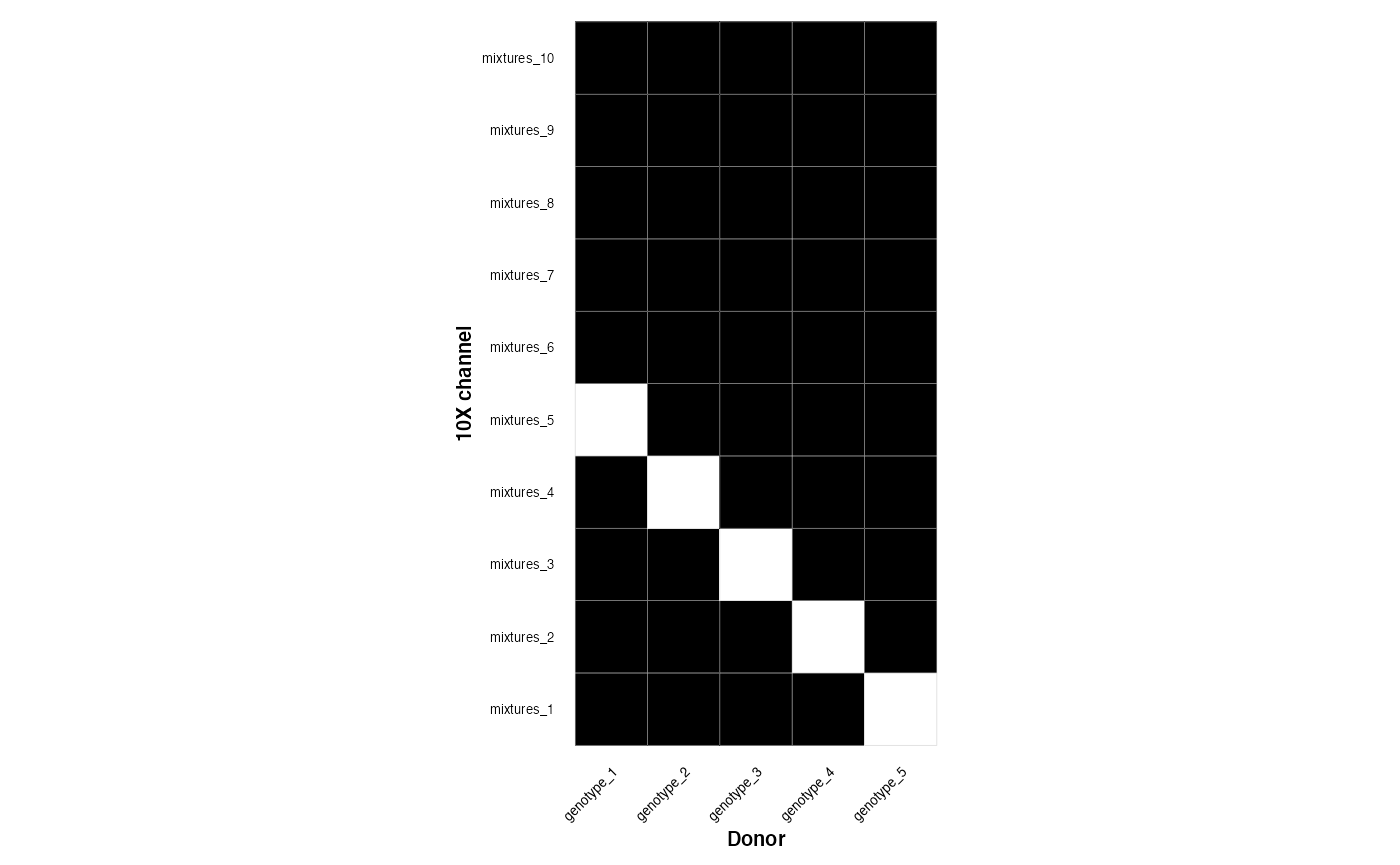
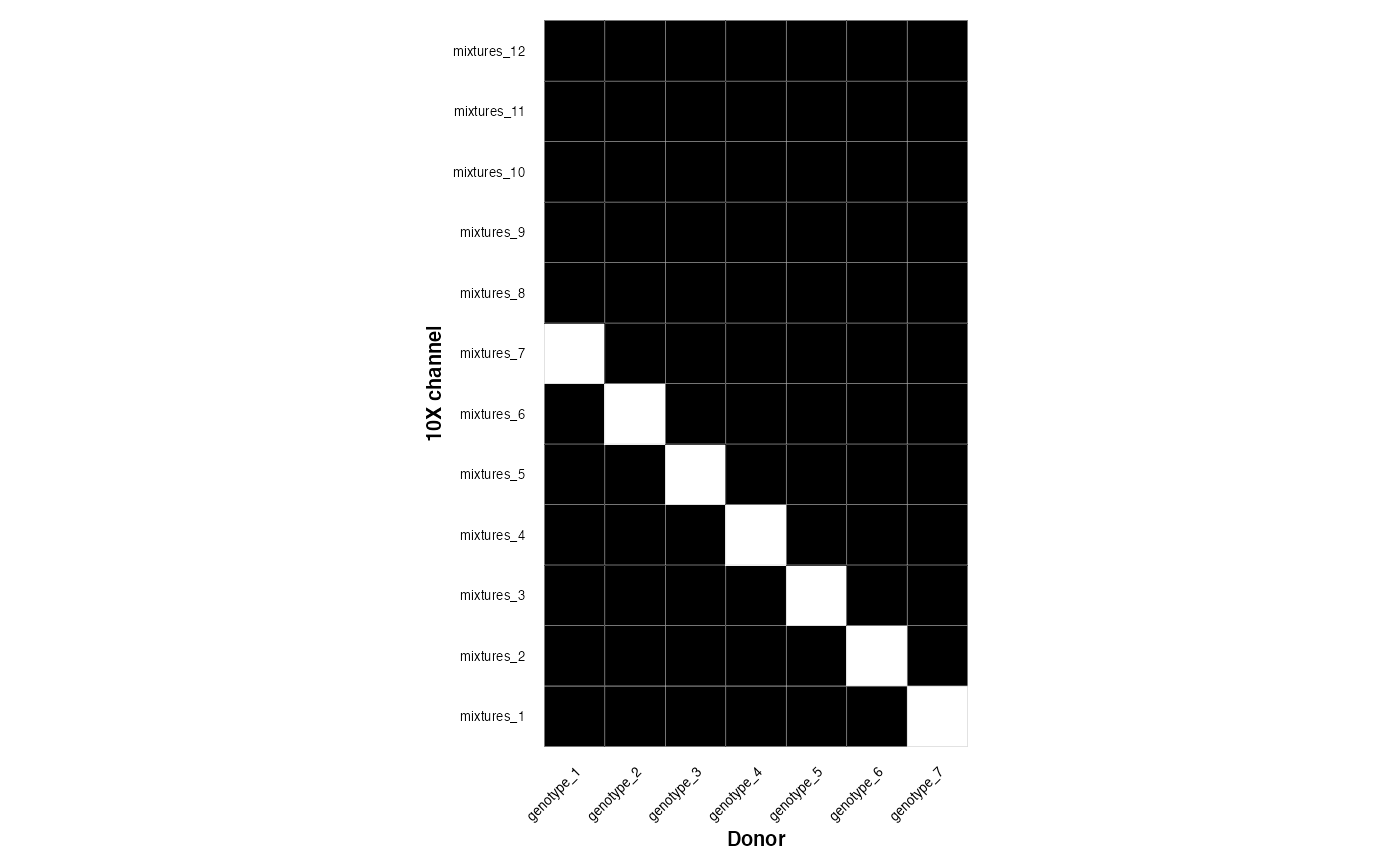
Built site for GenotypeMixtures: 0.0.0.9000@e977a91

diff --git a/articles/introduction.html b/articles/introduction.html
@@ -74,7 +74,7 @@
     <div class="page-header toc-ignore">
       <h1 data-toc-skip>Introduction to GenotypeMixtures</h1>
             
-            <h4 class="date">2021-06-23</h4>
+            <h4 class="date">2021-06-24</h4>
       
       
       <div class="hidden name"><code>introduction.Rmd</code></div>
@@ -90,7 +90,7 @@
 <p>Load GenotypeMixtures</p>
 <div class="sourceCode" id="cb2"><pre class="downlit sourceCode r">
 <code class="sourceCode R"><span class="kw"><a href="https://rdrr.io/r/base/library.html">library</a></span><span class="op">(</span><span class="va">GenotypeMixtures</span><span class="op">)</span></code></pre></div>
-<p>Experimental designs can be read in using this function if you point at a .csv Alternatively you can read in the .csv however you like, or construct from another file The experiments (10X channels should be rows, and the donors should be columns. Membership is denoted by 1 vs 0.</p>
+<p>Experimental designs can be read in using this function if you point at a .csv Alternatively you can read in the .csv however you like, or construct from another file The experiments (10X channels (mixtures) should be rows, and the donors/genotypes should be columns. Membership is denoted by 1 vs 0.</p>
 <pre><code>#&gt; reading experimental design
 #&gt; Using channel as id variables</code></pre>
 <p><img src="introduction_files/figure-html/unnamed-chunk-4-1.png" width="700"></p>
@@ -181,9 +181,9 @@
 <span class="co">#&gt; 23998 CCAGCGACATGGTTGT-1 singlet          1 mixtures_5 genotype_4 mixtures_5_1</span></code></pre></div>
 <p>The package can also output an experimental design with varying levels of density</p>
 <div class="sourceCode" id="cb11"><pre class="downlit sourceCode r">
-<code class="sourceCode R"><span class="va">dense_design</span> <span class="op">&lt;-</span> <span class="fu"><a href="../reference/make_overlapping_mixture.html">make_overlapping_mixture</a></span><span class="op">(</span>n_mixtures <span class="op">=</span> <span class="fl">10</span>, n_genotypes <span class="op">=</span> <span class="fl">5</span>, density <span class="op">=</span> <span class="fl">1</span> <span class="op">)</span>
-<span class="va">medium_density_design</span> <span class="op">&lt;-</span> <span class="fu"><a href="../reference/make_overlapping_mixture.html">make_overlapping_mixture</a></span><span class="op">(</span>n_mixtures <span class="op">=</span> <span class="fl">10</span>, n_genotypes <span class="op">=</span> <span class="fl">5</span>, density <span class="op">=</span> <span class="fl">0.5</span> <span class="op">)</span>
-<span class="va">sparse_design</span> <span class="op">&lt;-</span> <span class="fu"><a href="../reference/make_overlapping_mixture.html">make_overlapping_mixture</a></span><span class="op">(</span>n_mixtures <span class="op">=</span> <span class="fl">10</span>, n_genotypes <span class="op">=</span> <span class="fl">5</span>, density <span class="op">=</span> <span class="fl">0</span> <span class="op">)</span></code></pre></div>
+<code class="sourceCode R"><span class="va">dense_design</span> <span class="op">&lt;-</span> <span class="fu"><a href="../reference/make_overlapping_mixture.html">make_overlapping_mixture</a></span><span class="op">(</span>n_mixtures <span class="op">=</span> <span class="fl">12</span>, n_genotypes <span class="op">=</span> <span class="fl">7</span>, density <span class="op">=</span> <span class="fl">1</span> <span class="op">)</span>
+<span class="va">medium_density_design</span> <span class="op">&lt;-</span> <span class="fu"><a href="../reference/make_overlapping_mixture.html">make_overlapping_mixture</a></span><span class="op">(</span>n_mixtures <span class="op">=</span> <span class="fl">12</span>, n_genotypes <span class="op">=</span> <span class="fl">7</span>, density <span class="op">=</span> <span class="fl">0.5</span> <span class="op">)</span>
+<span class="va">sparse_design</span> <span class="op">&lt;-</span> <span class="fu"><a href="../reference/make_overlapping_mixture.html">make_overlapping_mixture</a></span><span class="op">(</span>n_mixtures <span class="op">=</span> <span class="fl">12</span>, n_genotypes <span class="op">=</span> <span class="fl">7</span>, density <span class="op">=</span> <span class="fl">0</span> <span class="op">)</span></code></pre></div>
 <p>This is a dense design</p>
 <div class="sourceCode" id="cb12"><pre class="downlit sourceCode r">
 <code class="sourceCode R"><span class="fu"><a href="../reference/plot_experimental_design.html">plot_experimental_design</a></span><span class="op">(</span><span class="va">dense_design</span><span class="op">)</span>
@@ -191,12 +191,12 @@
 <p><img src="introduction_files/figure-html/unnamed-chunk-13-1.png" width="700"></p>
 <p>This is a medium design</p>
 <div class="sourceCode" id="cb13"><pre class="downlit sourceCode r">
-<code class="sourceCode R"><span class="fu"><a href="../reference/plot_experimental_design.html">plot_experimental_design</a></span><span class="op">(</span><span class="va">sparse_design</span><span class="op">)</span>
+<code class="sourceCode R"><span class="fu"><a href="../reference/plot_experimental_design.html">plot_experimental_design</a></span><span class="op">(</span><span class="va">medium_density_design</span><span class="op">)</span>
 <span class="co">#&gt; Using channel as id variables</span></code></pre></div>
 <p><img src="introduction_files/figure-html/unnamed-chunk-14-1.png" width="700"></p>
 <p>This is a sparse design</p>
 <div class="sourceCode" id="cb14"><pre class="downlit sourceCode r">
-<code class="sourceCode R"><span class="fu"><a href="../reference/plot_experimental_design.html">plot_experimental_design</a></span><span class="op">(</span><span class="va">medium_density_design</span><span class="op">)</span>
+<code class="sourceCode R"><span class="fu"><a href="../reference/plot_experimental_design.html">plot_experimental_design</a></span><span class="op">(</span><span class="va">sparse_design</span><span class="op">)</span>
 <span class="co">#&gt; Using channel as id variables</span></code></pre></div>
 <p><img src="introduction_files/figure-html/unnamed-chunk-15-1.png" width="700"></p>
   </div>

diff --git a/index.html b/index.html
@@ -85,6 +85,11 @@
 <pre><code><a href="https://rdrr.io/r/base/library.html">library(devtools)
 install_github('bjstewart1/GenotypeMixtures')</a></code></pre>
 </div>
+<div id="vignette" class="section level3">
+<h3 class="hasAnchor">
+<a href="#vignette" class="anchor"></a>Vignette</h3>
+<p>A vignette is available at <a href="https://bjstewart1.github.io/GenotypeMixtures/articles/introduction.html" class="uri">https://bjstewart1.github.io/GenotypeMixtures/articles/introduction.html</a></p>
+</div>
 <div id="dependencies" class="section level3">
 <h3 class="hasAnchor">
 <a href="#dependencies" class="anchor"></a>Dependencies</h3>
